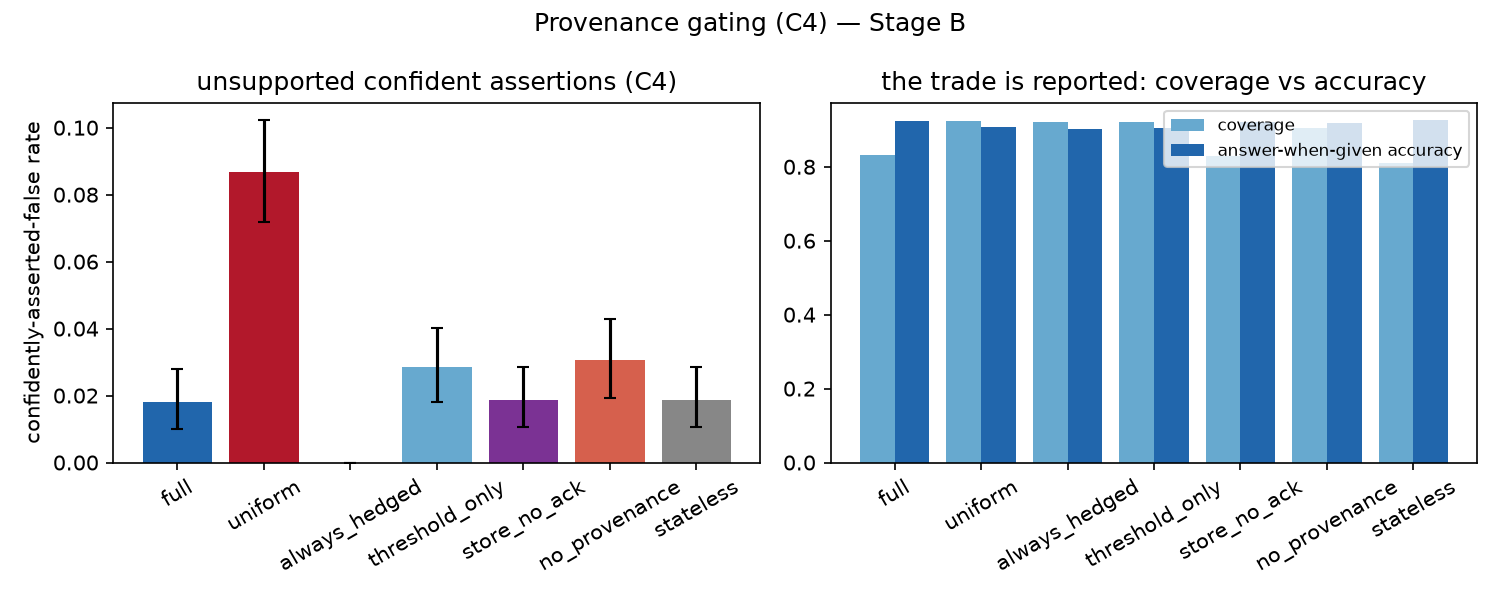
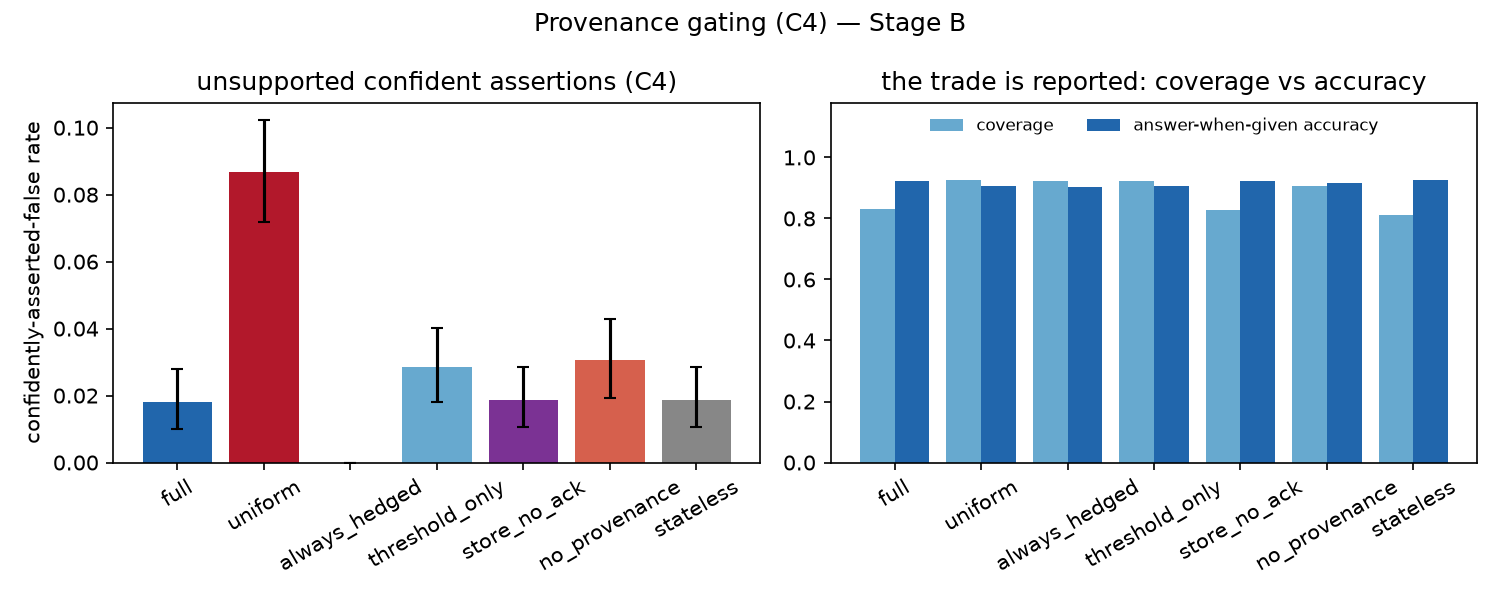
fix: post-review diagnostics, Python floor, Figure 3 legend
- scripts/sensitivity_post_review.py -> results/stageb/sensitivity_post_review.csv:
  post hoc decomposition behind the paper's correction rates (unheld vs held
  corrections; held-belief gap with a fact-clustered CI), acknowledgment
  breakdown (rendered admissions vs flags), hedge-high provenance composition,
  realized retrieval-store composition, fact-clustered CI for the logit-gated
  AUC, floor-redundancy and arm seed-stream checks. Replays the committed
  cache; no new model samples; frozen verdicts unchanged.
- pyproject.toml / BUILD.md: requires-python >=3.12 (pinned NumPy 2.5.1
  declares >=3.12); BUILD.md documents the diagnostics command.
- scripts/plot.py: Figure 3 legend moved above the bars; fig3_assertions.png
  re-rendered from the unchanged CSV.

diff --git a/scripts/sensitivity_post_review.py b/scripts/sensitivity_post_review.py
@@ -1,0 +1,222 @@
+"""Post hoc descriptive diagnostics requested by the 2026-09-22 pre-submission
+review. Replays the frozen Stage-B and Stage-C `full` arms from the committed
+per-fact cache (no new model samples) and writes
+results/stageb/sensitivity_post_review.csv with:
+
+  * the correction-acceptance decomposition behind the pre-specified mixed
+    rates: corrections of unheld claims (accepted by rule), corrections that
+    disagree with a held belief, and agreeing corrections (dropped by the
+    scorer);
+  * a subject-level (fact-clustered) bootstrap interval for the held-belief
+    true-minus-false acceptance gap (Stage B);
+  * a subject-level bootstrap interval for the Stage-B logit-gated
+    expression-discrimination AUC (conversation-clustered in the paper);
+  * the acknowledgment breakdown (rendered admissions vs. flagged ask turns),
+    the accepted-revision composition, the HEDGE_HIGH provenance composition,
+    and the realized retrieval-store composition.
+
+The frozen verdicts are NOT recomputed or relabeled; this is a disclosed
+post hoc analysis. Usage: python scripts/sensitivity_post_review.py
+"""
+
+from __future__ import annotations
+
+import csv
+import re
+import sys
+from collections import Counter, defaultdict
+from pathlib import Path
+
+import numpy as np
+
+ROOT = Path(__file__).resolve().parents[1]
+sys.path.insert(0, str(ROOT))
+sys.path.insert(0, str(Path(__file__).resolve().parent))
+
+from benchmark.build_benchmark import load  # noqa: E402
+from sensitivity_fact_cluster import _auc, _by_subject, _ci  # noqa: E402
+from truthllm import protocol  # noqa: E402
+from truthllm.arms import ARM_ORDER, ARMS  # noqa: E402
+from truthllm.llm_model import LLMBaseModel  # noqa: E402
+from truthllm.metrics import correction_scores, expression_auc  # noqa: E402
+from truthllm.pipeline import run_conversation  # noqa: E402
+from truthllm.store import RevisionTrigger  # noqa: E402
+from truthllm.worldb import WorldB  # noqa: E402
+
+MODES = ["combined", "logit", "consistency"]  # reproduce_stageb.EXTRACTOR_MODES
+
+
+def _run(instances, arm, mode, model, docs, rules):
+    i = ARM_ORDER.index(arm)
+    rng = np.random.default_rng(protocol.SEED_ARM_BASE + i + 1000 * MODES.index(mode))
+    return [(inst["case_id"], run_conversation(inst, ARMS[arm], model, docs, rng,
+                                               extractor_mode=mode, rules=rules))
+            for inst in instances]
+
+
+def correction_decomposition(case_events, labels):
+    """Counts keyed by (label, slice, accepted); slice in unheld/held/agreeing."""
+    c = Counter()
+    for cid, events in case_events:
+        tl = labels[cid]
+        for ev in events:
+            if ev.turn_type != "CORRECT":
+                continue
+            lab = "true" if tl[ev.t]["correct_true"] else "false"
+            corr = [r for r in ev.revision_events if r.trigger is RevisionTrigger.USER_CORRECTION]
+            if not corr:
+                c[(lab, "agreeing", False)] += 1
+                continue
+            r = corr[0]
+            c[(lab, "unheld" if r.old_value is None else "held", bool(r.accepted))] += 1
+    return c
+
+
+def held_gap_fact_bootstrap(case_events, labels, n=protocol.BOOTSTRAP_N, seed=protocol.SEED_BOOTSTRAP):
+    per = defaultdict(lambda: {"t": [], "f": []})
+    for cid, events in case_events:
+        tl = labels[cid]
+        for ev in events:
+            if ev.turn_type != "CORRECT":
+                continue
+            corr = [r for r in ev.revision_events
+                    if r.trigger is RevisionTrigger.USER_CORRECTION and r.old_value is not None]
+            if not corr:
+                continue
+            per[ev.subject]["t" if tl[ev.t]["correct_true"] else "f"].append(any(r.accepted for r in corr))
+    rng = np.random.default_rng(seed)
+    subs = sorted(per)
+    k = len(subs)
+    gaps = []
+    for _ in range(n):
+        pick = [subs[j] for j in rng.integers(0, k, size=k)]
+        t = [x for s in pick for x in per[s]["t"]]
+        f = [x for s in pick for x in per[s]["f"]]
+        gaps.append((np.mean(t) if t else np.nan) - (np.mean(f) if f else np.nan))
+    return _ci(gaps), k
+
+
+def auc_fact_bootstrap(case_events, world, n=protocol.BOOTSTRAP_N, seed=protocol.SEED_BOOTSTRAP):
+    fid, _ = _by_subject(case_events, world)
+    rng = np.random.default_rng(seed)
+    subs = sorted(fid)
+    k = len(subs)
+    aucs = []
+    for _ in range(n):
+        pick = [subs[j] for j in rng.integers(0, k, size=k)]
+        aucs.append(_auc([r for s in pick for r in fid.get(s, [])]))
+    return _ci(aucs), k
+
+
+def main() -> int:
+    world = WorldB()
+    rules = world.public_rules()
+    docs = world.retrieval_docs(seed=protocol.MASTER_SEED)
+    instances, labels_rows, _ = load("stageb-v1.0", verify=True)
+    labels = {r["case_id"]: r["turn_labels"] for r in labels_rows}
+    model = LLMBaseModel(world.subjects, seed=protocol.MASTER_SEED,
+                         cache_path=ROOT / "results" / "stageb" / "model_cache.json")
+    rows: list[list] = []
+
+    n_sub = len({s for (s, _a) in docs})
+    stale = sum(1 for (s, a), v in docs.items() if v != world.truth(s, a))
+    rows.append(["retrieval_store", "realized", "subjects_covered", n_sub, len(world.subjects), ""])
+    rows.append(["retrieval_store", "realized", "stale_entries", stale, len(docs), ""])
+
+    for stage, mode in (("stageb", "combined"), ("stagec", "consistency")):
+        full = _run(instances, "full", mode, model, docs, rules)
+        t_acc, f_acc = correction_scores(full, labels)
+        rows.append([stage, "corrections", "scorer_true_accept_rate", f"{t_acc:.4f}", "", ""])
+        rows.append([stage, "corrections", "scorer_false_accept_rate", f"{f_acc:.4f}", "", ""])
+        dec = correction_decomposition(full, labels)
+        for lab in ("true", "false"):
+            for sl in ("unheld", "held"):
+                acc = dec[(lab, sl, True)]
+                tot = acc + dec[(lab, sl, False)]
+                rows.append([stage, "corrections", f"{lab}_{sl}_accepted", acc, tot,
+                             f"{acc / tot:.4f}" if tot else ""])
+            rows.append([stage, "corrections", f"{lab}_agreeing_dropped", dec[(lab, "agreeing", False)], "", ""])
+        (lo, hi), k = held_gap_fact_bootstrap(full, labels)
+        held_t = dec[("true", "held", True)] / (dec[("true", "held", True)] + dec[("true", "held", False)])
+        held_f = dec[("false", "held", True)] / (dec[("false", "held", True)] + dec[("false", "held", False)])
+        rows.append([stage, "corrections", "held_gap_true_minus_false", f"{held_t - held_f:.4f}",
+                     f"[{lo:.4f}, {hi:.4f}]", f"fact-clustered 95% CI, {k} subjects"])
+
+        acc_rev = Counter()
+        for _cid, events in full:
+            for ev in events:
+                for r in ev.revision_events:
+                    if r.accepted:
+                        acc_rev[(r.trigger.name, "unheld" if r.old_value is None else "held")] += 1
+        for (trig, sl), n in sorted(acc_rev.items()):
+            rows.append([stage, "accepted_revisions", f"{trig}_{sl}", n, "", ""])
+        rendered = flagged = never_uttered = 0
+        for _cid, events in full:
+            for k_, ev in enumerate(events):
+                if not ev.acknowledged:
+                    continue
+                if ev.turn_type == "CORRECT":
+                    rendered += 1
+                    old = re.search(r"I said (.*?), it is", ev.expressed_value).group(1)
+                    if not any(e.subject == ev.subject and e.attribute == ev.attribute
+                               and e.expressed_value and old in e.expressed_value for e in events[:k_]):
+                        never_uttered += 1
+                else:
+                    flagged += 1
+        rows.append([stage, "acknowledgments", "rendered_admissions_on_correct_turns", rendered, "", ""])
+        rows.append([stage, "acknowledgments", "flag_only_on_ask_turns", flagged, "", ""])
+        rows.append([stage, "acknowledgments", "rendered_admissions_prior_value_never_uttered", never_uttered, rendered, ""])
+        hh = Counter(ev.provenance for _c, evs in full for ev in evs
+                     if ev.turn_type in ("ASK", "REASK") and ev.category == "HEDGE_HIGH")
+        for prov, n in sorted(hh.items()):
+            rows.append([stage, "hedge_high_by_provenance", prov, n, "", ""])
+        ret = Counter(ev.category for _c, evs in full for ev in evs
+                      if ev.turn_type in ("ASK", "REASK") and ev.provenance == "RETRIEVED")
+        for cat, n in sorted(ret.items()):
+            rows.append([stage, "retrieved_by_category", cat, n, "", ""])
+
+    logit = _run(instances, "full", "logit", model, docs, rules)
+    est = expression_auc(logit, world)
+    (lo, hi), k = auc_fact_bootstrap(logit, world)
+    rows.append(["stageb", "discrimination", "full_logit_auc", f"{est:.4f}", f"[{lo:.4f}, {hi:.4f}]",
+                 f"fact-clustered 95% CI, {k} subjects"])
+
+    # floor redundancy: the full configuration with three_state=False (everything
+    # else identical) must reproduce every Stage-B full-arm event
+    from truthllm.arms import ArmConfig
+    i = ARM_ORDER.index("full")
+    rng = np.random.default_rng(protocol.SEED_ARM_BASE + i)
+    nofloor = [(inst["case_id"], run_conversation(inst, ArmConfig("full", "table", False, True, True, True),
+                                                  model, docs, rng, extractor_mode="combined", rules=rules))
+               for inst in instances]
+
+    fullb = _run(instances, "full", "combined", model, docs, rules)
+    # dataclass equality: every TurnEvent field, including nested revision events
+    rows.append(["stageb", "floor_redundancy", "full_three_state_off_identical_events",
+                 str(fullb == nofloor), "", ""])
+    # independent retrieval-sampling streams: committed full vs store_no_ack logs
+    import json
+
+    def _load(p):
+        return {(e["case_id"], e["t"]): e for e in map(json.loads, open(p))}
+    a = _load(ROOT / "results" / "stageb" / "events" / "full.jsonl")
+    b = _load(ROOT / "results" / "stageb" / "events" / "store_no_ack.jsonl")
+    asks = [k for k in a if a[k]["turn_type"] in ("ASK", "REASK")]
+    diff = sum(1 for k in asks
+               if (a[k]["category"], a[k]["expressed_value"]) != (b[k]["category"], b[k]["expressed_value"]))
+    rows.append(["stageb", "arm_seed_streams", "full_vs_store_no_ack_ask_turn_output_differences",
+                 diff, len(asks), ""])
+
+    out = ROOT / "results" / "stageb" / "sensitivity_post_review.csv"
+    with out.open("w", newline="") as fh:
+        w = csv.writer(fh)
+        w.writerow(["stage", "block", "quantity", "value", "denominator_or_ci", "note"])
+        w.writerows(rows)
+    print(f"wrote {out}")
+    for r in rows:
+        print(*r, sep=" | ")
+    return 0
+
+
+if __name__ == "__main__":
+    raise SystemExit(main())

diff --git a/scripts/plot.py b/scripts/plot.py
@@ -97,7 +97,8 @@ def _fig3_assertions(results: Path, label: str) -> None:
     axes[1].set_xticks(list(x))
     axes[1].set_xticklabels(arms, rotation=30)
     axes[1].set_title("the trade is reported: coverage vs accuracy")
-    axes[1].legend(fontsize=8)
+    axes[1].set_ylim(0, 1.18)  # headroom so the legend sits above the bars
+    axes[1].legend(fontsize=8, loc="upper center", ncol=2, frameon=False)
     fig.suptitle(f"Provenance gating (C4) — {label}")
     fig.tight_layout()
     fig.savefig(results / "fig3_assertions.png", dpi=150)

diff --git a/BUILD.md b/BUILD.md
@@ -1,6 +1,6 @@
 # Build and reproduction instructions
 
-Run all commands from `prototype/`. Python 3.11 or later is required.
+Run all commands from `prototype/`. Python 3.12 or later is required (the pinned NumPy 2.5.1 declares `>=3.12`).
 
 ## Install
 
@@ -51,6 +51,10 @@ model pin and committed cache metadata.
 
 # Fact-clustered sensitivity analysis
 .venv/bin/python scripts/sensitivity_fact_cluster.py
+
+# Post hoc diagnostics behind the 2026-09 review (correction-path decomposition,
+# acknowledgment breakdown, fact-clustered held-gap and logit-AUC intervals)
+.venv/bin/python scripts/sensitivity_post_review.py
 ```
 
 Each grid writes CSV files, event logs, four figures, `RESULTS.md`, and
